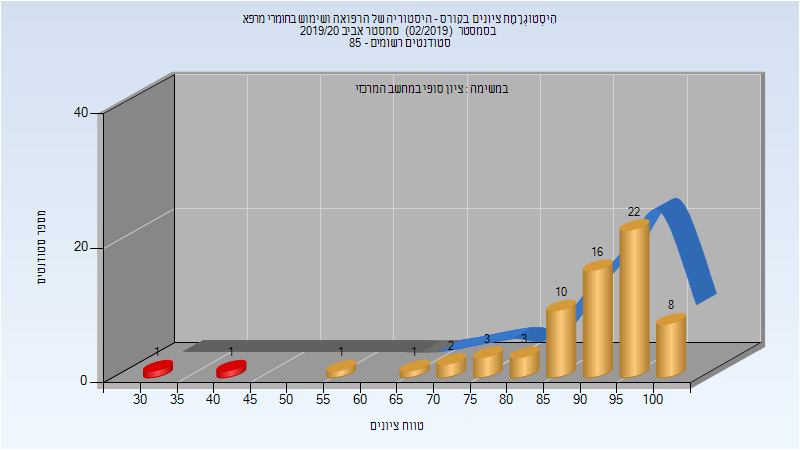
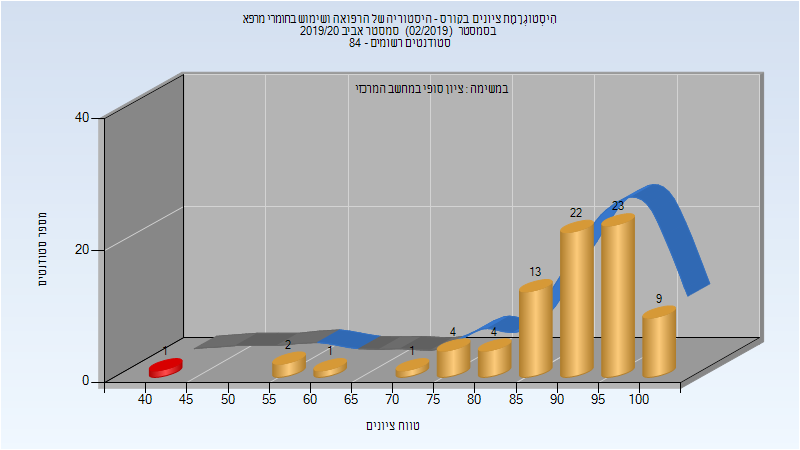
Deploy michael-maltsev/technion-histograms to github.com/michael-maltsev/technion-histograms.git:gh-pages

diff --git a/324290/index.html b/324290/index.html
@@ -777,6 +777,32 @@
 </tr>
 </tbody>
 </table>
+<h3>סופי מועד ב'</h3>
+<p><img src="201902/Final_B.png" alt="201902 Final_B" /></p>
+<table>
+<thead>
+<tr>
+<th>סטודנטים</th>
+<th>עברו/נכשלו</th>
+<th>אחוז עוברים</th>
+<th>ציון מינימלי</th>
+<th>ציון מקסימלי</th>
+<th>ממוצע</th>
+<th>חציון</th>
+</tr>
+</thead>
+<tbody>
+<tr>
+<td>18</td>
+<td>18/0</td>
+<td>100</td>
+<td>58</td>
+<td>100</td>
+<td>85.722</td>
+<td>88</td>
+</tr>
+</tbody>
+</table>
 <h3>סופי</h3>
 <p><img src="201902/Finals.png" alt="201902 Finals" /></p>
 <table>
@@ -793,12 +819,12 @@
 </thead>
 <tbody>
 <tr>
-<td>68</td>
-<td>66/2</td>
-<td>97</td>
-<td>33</td>
+<td>80</td>
+<td>79/1</td>
+<td>99</td>
+<td>42</td>
 <td>100</td>
-<td>89.941</td>
+<td>90.388</td>
 <td>94</td>
 </tr>
 </tbody>

diff --git a/234292/index.html b/234292/index.html
@@ -93,12 +93,12 @@
 </thead>
 <tbody>
 <tr>
-<td>261</td>
-<td>218/43</td>
-<td>84</td>
+<td>270</td>
+<td>231/39</td>
+<td>86</td>
 <td>16</td>
 <td>100</td>
-<td>76.958</td>
+<td>77.078</td>
 <td>81</td>
 </tr>
 </tbody>

diff --git a/236501/index.html b/236501/index.html
@@ -202,8 +202,8 @@
 </thead>
 <tbody>
 <tr>
-<td>119</td>
-<td>118/1</td>
+<td>120</td>
+<td>119/1</td>
 <td>99</td>
 <td>51</td>
 <td>100</td>

diff --git a/324290/README.md b/324290/README.md
@@ -240,11 +240,19 @@
 | ---- | ---- | ---- | ---- | ---- | ---- | ---- |
 | 68 | 66/2 | 97 | 33 | 100 | 89.941 | 94 |
 
+### סופי מועד ב'
+
+![201902 Final_B](201902/Final_B.png)
+
+| סטודנטים | עברו/נכשלו | אחוז עוברים | ציון מינימלי | ציון מקסימלי | ממוצע | חציון |
+| ---- | ---- | ---- | ---- | ---- | ---- | ---- |
+| 18 | 18/0 | 100 | 58 | 100 | 85.722 | 88 |
+
 ### סופי
 
 ![201902 Finals](201902/Finals.png)
 
 | סטודנטים | עברו/נכשלו | אחוז עוברים | ציון מינימלי | ציון מקסימלי | ממוצע | חציון |
 | ---- | ---- | ---- | ---- | ---- | ---- | ---- |
-| 68 | 66/2 | 97 | 33 | 100 | 89.941 | 94 |
+| 80 | 79/1 | 99 | 42 | 100 | 90.388 | 94 |
 

diff --git a/234292/README.md b/234292/README.md
@@ -26,7 +26,7 @@
 
 | סטודנטים | עברו/נכשלו | אחוז עוברים | ציון מינימלי | ציון מקסימלי | ממוצע | חציון |
 | ---- | ---- | ---- | ---- | ---- | ---- | ---- |
-| 261 | 218/43 | 84 | 16 | 100 | 76.958 | 81 |
+| 270 | 231/39 | 86 | 16 | 100 | 77.078 | 81 |
 
 ## אביב 2020
 

diff --git a/236501/README.md b/236501/README.md
@@ -64,5 +64,5 @@
 
 | סטודנטים | עברו/נכשלו | אחוז עוברים | ציון מינימלי | ציון מקסימלי | ממוצע | חציון |
 | ---- | ---- | ---- | ---- | ---- | ---- | ---- |
-| 119 | 118/1 | 99 | 51 | 100 | 87.05 | 92.5 |
+| 120 | 119/1 | 99 | 51 | 100 | 87.05 | 92.5 |
 
